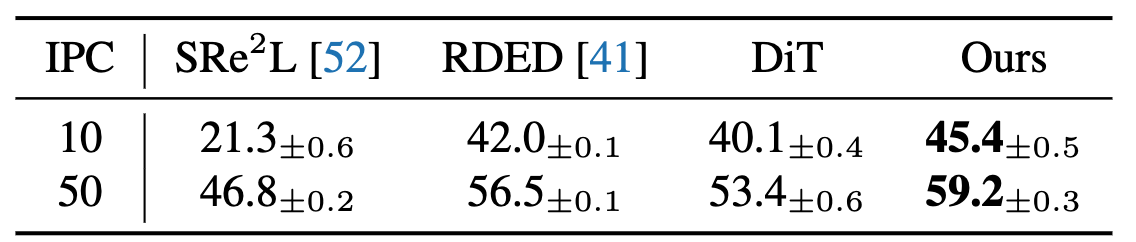
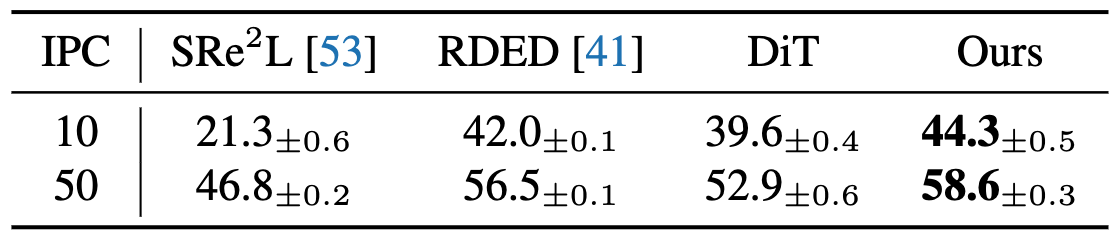
fix 224 resolution

diff --git a/README.md b/README.md
@@ -78,7 +78,7 @@ Performance comparison with state-of-the-art methods on ImageWoof.
 We provide example generated images [here](https://drive.google.com/file/d/1oVool9rNOHmr7acZAeH9vERW64ZfqkG8) to reproduce the results. 
 <p align="center"><img src="./figs/results-imagewoof.png" align="center" width="750"></p>
 
-We further extend MinimaxDiffusion to the full ImageNet-1K dataset. The generated 50-IPC images can be found in [google drive](https://drive.google.com/file/d/1KNW5JqANFoTzSO--WXWhZZunigSQqGWd/view?usp=sharing). With a better validation protocol provided in [RDED](https://github.com/LINs-lab/RDED) the generated data achieves the following accuracy:
+We further extend MinimaxDiffusion to the full ImageNet-1K dataset. The generated 50-IPC images can be found in [google drive](https://drive.google.com/file/d/1HYZOiSEzJed67D_UTZEI2JElrsA6AM9n). With a better validation protocol provided in [RDED](https://github.com/LINs-lab/RDED) the generated data achieves the following accuracy:
 <p align="center"><img src="./figs/imagenet1k.png" align="center" width="400"></p>
 
 ## Acknowledgement
